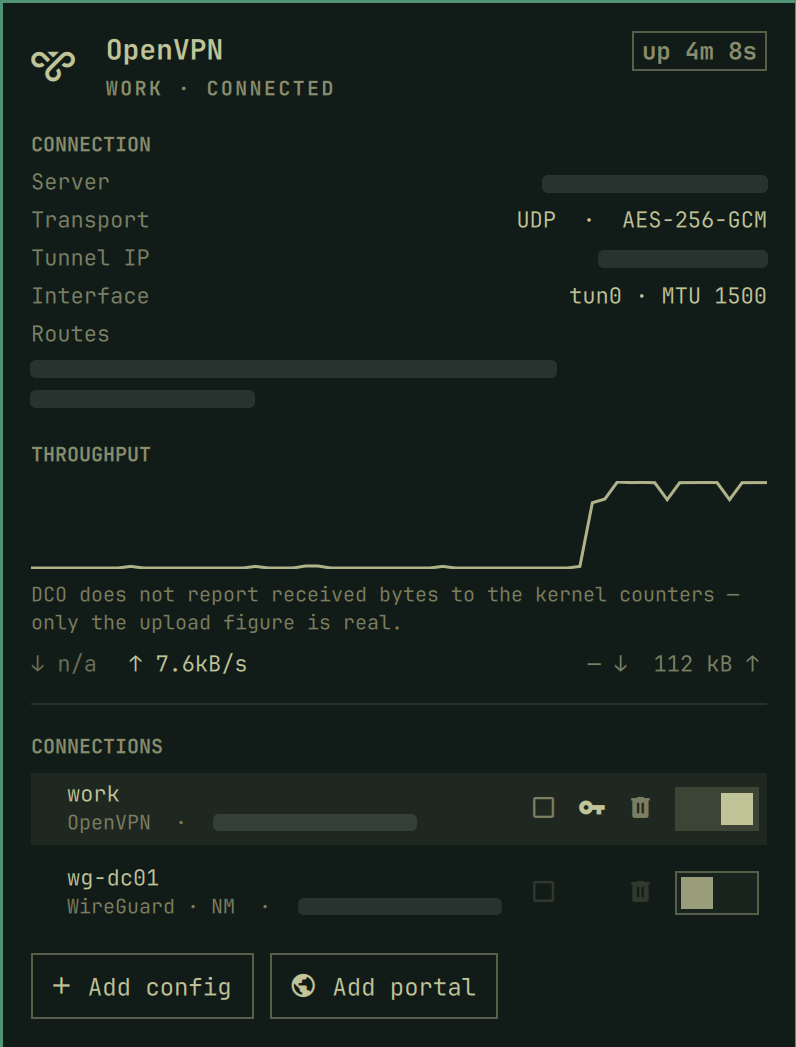
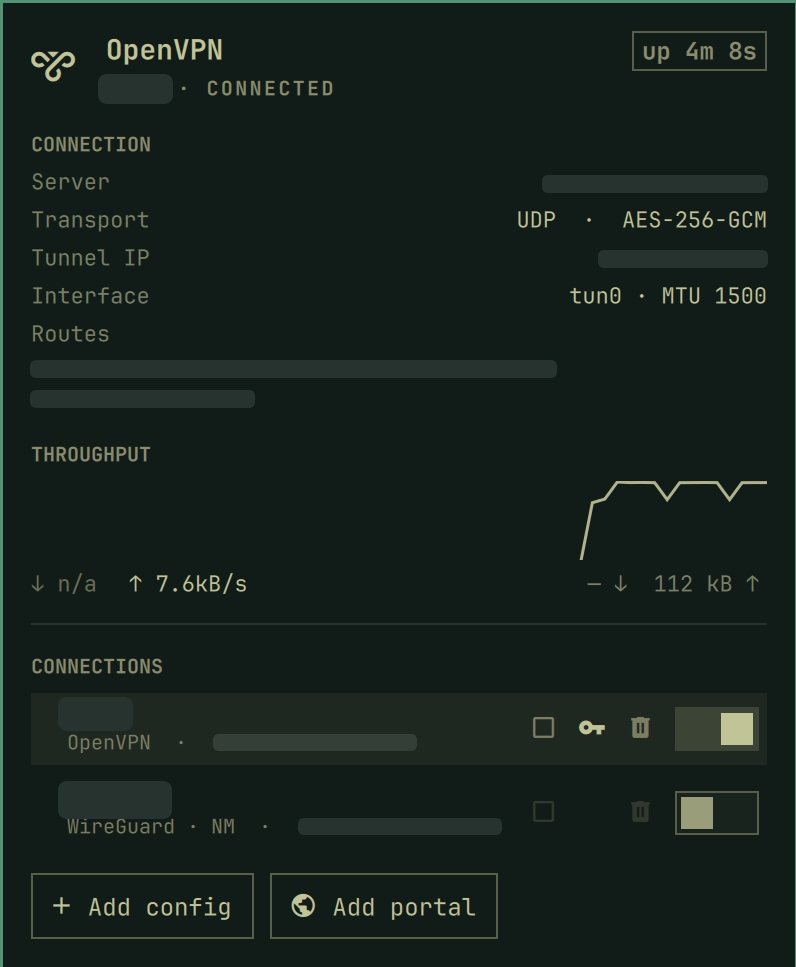
Lead the README with the install command and redact the preview
The listing was a capability matrix and a DCO caption before anyone saw
how to install it. Hook, screenshot and the plugin-add line now sit at
the top; the rest of the reference material is unchanged below.

The preview no longer shows the DCO note, profile names, or tunnel
endpoints — same overlay bars as KubeContext.

diff --git a/README.md b/README.md
@@ -1,56 +1,39 @@
 # MultiVPN for Omarchy
 
-One bar widget for every VPN on the machine. **Unified mode** — the default —
-lists OpenVPN profiles, OpenVPN 3 configs, WireGuard interfaces and
-GlobalProtect portals in a single panel, follows whichever one is connected,
-and switches between them with a click. Buttons add a config or a portal
-without leaving the panel.
-
-You can also pin an instance to a single backend if you prefer one icon per
-VPN; `allowMultiple` is on.
-
-| Backend | Connect / disconnect | Profile list | Autostart | Import | Credentials |
-|---|---|---|---|---|---|
-| **OpenVPN** (`openvpn-client@` and NetworkManager) | yes | `/etc/openvpn/client` + `nmcli` | yes | yes | systemd: stored; NM: prompt at connect |
-| **OpenVPN 3** (`openvpn3` D-Bus session manager) | yes | `openvpn3 configs-list` | no | yes | asked at session start — SSO opens the browser |
-| **WireGuard** (`wg-quick@` and NetworkManager) | yes | `/etc/wireguard` + `nmcli` | yes | yes | n/a — keys live in the config |
-| **GlobalProtect** (`gpclient`) | disconnect yes, connect hands off | no | no | no | n/a — SSO |
-
-Unified mode reports **every** connection that is up, not just one. Split-tunnel
-VPNs coexist without trouble — an OpenVPN profile pushing two office subnets and
-a WireGuard tunnel routing a few /16s do not interfere at all — so activating one
-does not take the others down. When more than one is connected, a selector picks
-which one the detail and throughput block describes.
-
-The one real conflict is the default route, and only full-tunnel configs claim
-it. If two connections do, the panel says so rather than trying to prevent it.
-
-OpenVPN 3 is the other OpenVPN stack and deliberately a separate backend — the
-two coexist on one machine and the panel decides capabilities per row. It is a
-per-user D-Bus session manager driven by the unprivileged `openvpn3` CLI, so
-listing, importing, connecting and removing configs never touch the root helper
-or its cache; polkit governs the D-Bus services instead. A profile with
-web-based auth does not just connect: the widget starts the session, opens the
-auth URL it prints in your browser, and watches until the session reports
-connected. It stops watching after ~120 s but leaves the session standing, so
-finishing the login late still connects. Autostart is off for now —
-`openvpn3-session@` units want root-owned persistent configs.
-
-GlobalProtect is deliberately the thin one. `gpclient` has no status command,
-no systemd unit and an interactive SSO login, so the widget watches it, can take
-it down, and hands connecting to a terminal or the vendor GUI. Everything that
-comes off the tunnel interface — address, routes, uptime, throughput — works the
-same for all three.
-
-*(Deutsche Fassung: [README.de.md](README.de.md).)*
+One bar widget for every VPN on the machine. Work OpenVPN, homelab WireGuard
+and GlobalProtect sit side by side. Split tunnels stay up together — connecting
+one does not take the others down. Drop a `.ovpn` or `.conf` on **Add config**
+to import.
 
 ![Preview](preview.png)
 
+## Install
+
+```bash
+omarchy plugin add https://github.com/Nepomuk-Software/MultiVPN.git --enable
+```
+
+That is enough. **Unified mode** is the default and needs no configuration. It
+lists OpenVPN profiles, OpenVPN 3 configs, WireGuard interfaces and GlobalProtect
+portals in a single panel, follows whichever one is connected, and switches
+between them with a click.
+
+To pin an instance to a single backend instead (`allowMultiple` is on):
+
+```bash
+omarchy bar set io.github.nepomuk-software.multivpn backend openvpn
+omarchy bar set io.github.nepomuk-software.multivpn profile home
+```
+
+*(Deutsche Fassung: [README.de.md](README.de.md).)*
+
+## What you get
+
 - **Bar icon** — dimmed while down, solid while up, pulsing during a transition.
   Optionally shows the current rate next to the icon.
-- **One switch per VPN**, in its own row. There is no global switch: with
-  several connections possible at once, a single toggle at the top would have to
-  pick one silently.
+- **One switch per VPN**, in its own row. There is no global switch: with several
+  connections possible at once, a single toggle at the top would have to pick
+  one silently.
 - **Connection** — server endpoint, protocol and port, cipher, tunnel IP,
   interface and MTU, uptime, pushed routes.
 - **Throughput** — a sparkline over the last 60 samples plus current rate and
@@ -72,6 +55,44 @@ same for all three.
   helper, and the path that can prompt for a one-time password), OpenVPN 3's
   session manager, or `/etc/openvpn/client` for `openvpn-client@`.
   GlobalProtect portals are added by host name instead, since they are not files.
+- **No root required** for status, throughput, NetworkManager connections and
+  OpenVPN 3. Listing files under `/etc/openvpn/client` and `/etc/wireguard` is
+  the exception; the panel says so and offers a one-time setup.
+
+## Backends
+
+| Backend | Connect / disconnect | Profile list | Autostart | Import | Credentials |
+|---|---|---|---|---|---|
+| **OpenVPN** (`openvpn-client@` and NetworkManager) | yes | `/etc/openvpn/client` + `nmcli` | yes | yes | systemd: stored; NM: prompt at connect |
+| **OpenVPN 3** (`openvpn3` D-Bus session manager) | yes | `openvpn3 configs-list` | no | yes | asked at session start — SSO opens the browser |
+| **WireGuard** (`wg-quick@` and NetworkManager) | yes | `/etc/wireguard` + `nmcli` | yes | yes | n/a — keys live in the config |
+| **GlobalProtect** (`gpclient`) | disconnect yes, connect hands off | no | no | no | n/a — SSO |
+
+Unified mode reports **every** connection that is up, not just one. Split-tunnel
+VPNs coexist without trouble — an OpenVPN profile pushing two office subnets and
+a WireGuard tunnel routing a few /16s do not interfere at all. When more than
+one is connected, a selector picks which one the detail and throughput block
+describes.
+
+The one real conflict is the default route, and only full-tunnel configs claim
+it. If two connections do, the panel says so rather than trying to prevent it.
+
+OpenVPN 3 is the other OpenVPN stack and deliberately a separate backend — the
+two coexist on one machine and the panel decides capabilities per row. It is a
+per-user D-Bus session manager driven by the unprivileged `openvpn3` CLI, so
+listing, importing, connecting and removing configs never touch the root helper
+or its cache; polkit governs the D-Bus services instead. A profile with
+web-based auth does not just connect: the widget starts the session, opens the
+auth URL it prints in your browser, and watches until the session reports
+connected. It stops watching after ~120 s but leaves the session standing, so
+finishing the login late still connects. Autostart is off for now —
+`openvpn3-session@` units want root-owned persistent configs.
+
+GlobalProtect is deliberately the thin one. `gpclient` has no status command,
+no systemd unit and an interactive SSO login, so the widget watches it, can take
+it down, and hands connecting to a terminal or the vendor GUI. Everything that
+comes off the tunnel interface — address, routes, uptime, throughput — works the
+same for all four.
 
 ## Requirements
 
@@ -86,26 +107,11 @@ same for all three.
 Reading the journal is optional in practice: without it the panel simply shows
 `—` for server and cipher.
 
-## Install
-
-```bash
-omarchy plugin add https://github.com/Nepomuk-Software/MultiVPN.git --enable
-```
-
-That is enough — unified mode needs no configuration. To pin an instance to one
-backend instead:
-
-```bash
-omarchy bar set io.github.nepomuk-software.multivpn backend openvpn
-omarchy bar set io.github.nepomuk-software.multivpn profile work
-```
-
 ## Privilege boundary
 
-**Everything above works with no elevated privileges.** Status, throughput and
-connection details come from unprivileged reads. Bringing the tunnel up and down
-uses `systemctl start/stop`, which polkit will ask about unless you have a rule
-for it (see below).
+**Status, throughput and connection details work with no elevated privileges.**
+Bringing the tunnel up and down uses `systemctl start/stop`, which polkit will
+ask about unless you have a rule for it (see below).
 
 **Profile management is the exception.** `/etc/openvpn/client` is `750
 openvpn:network` and `/etc/wireguard` is root-only, so listing, importing or

diff --git a/README.de.md b/README.de.md
@@ -1,53 +1,34 @@
 # MultiVPN für Omarchy
 
-Ein Bar-Widget für alle VPNs der Maschine. Der **Unified-Modus** — die
-Voreinstellung — listet OpenVPN-Profile, OpenVPN-3-Configs,
+Ein Bar-Widget für alle VPNs der Maschine. Office-OpenVPN, Homelab-WireGuard
+und GlobalProtect stehen nebeneinander. Split-Tunnels bleiben stehen —
+eine Verbindung zu aktivieren baut die anderen nicht ab. Eine `.ovpn` oder
+`.conf` landet über **Add config** im Panel.
+
+![Vorschau](preview.png)
+
+## Installieren
+
+```bash
+omarchy plugin add https://github.com/Nepomuk-Software/MultiVPN.git --enable
+```
+
+Das reicht. Der **Unified-Modus** ist die Voreinstellung und braucht keine
+Konfiguration. Er listet OpenVPN-Profile, OpenVPN-3-Configs,
 WireGuard-Interfaces und GlobalProtect-Portale in einem Panel, folgt der
-jeweils verbundenen Lösung und wechselt per Klick. Knöpfe fügen eine Config
-oder ein Portal hinzu, ohne das Panel zu verlassen.
+jeweils verbundenen Lösung und wechselt per Klick.
 
-Wer lieber ein Icon pro VPN will, kann eine Instanz auf ein Backend festnageln;
-`allowMultiple` ist an.
+Wer lieber ein Icon pro VPN will, kann eine Instanz auf ein Backend festnageln
+(`allowMultiple` ist an):
 
-| Backend | Schalten | Profilliste | Autostart | Import | Zugangsdaten |
-|---|---|---|---|---|---|
-| **OpenVPN** (`openvpn-client@` und NetworkManager) | ja | `/etc/openvpn/client` + `nmcli` | ja | ja | systemd: gespeichert; NM: Prompt beim Verbinden |
-| **OpenVPN 3** (`openvpn3`-D-Bus-Sitzungsmanager) | ja | `openvpn3 configs-list` | nein | ja | beim Sitzungsstart — SSO öffnet den Browser |
-| **WireGuard** (`wg-quick@` und NetworkManager) | ja | `/etc/wireguard` + `nmcli` | ja | ja | entfällt — Schlüssel stehen in der Config |
-| **GlobalProtect** (`gpclient`) | Trennen ja, Verbinden wird übergeben | nein | nein | nein | entfällt — SSO |
-
-Der Unified-Modus meldet **alle** laufenden Verbindungen, nicht nur eine.
-Split-Tunnel vertragen sich problemlos — ein OpenVPN-Profil, das zwei
-Büro-Subnetze pusht, und ein WireGuard-Tunnel für ein paar /16er kommen sich
-nicht ins Gehege. Eine Verbindung zu aktivieren baut die anderen also nicht ab.
-Sind mehrere verbunden, wählt eine Leiste aus, welche der Detail- und
-Durchsatzblock beschreibt.
-
-Der einzige echte Konflikt ist die Default-Route, und die beanspruchen nur
-Full-Tunnel-Configs. Tun das zwei gleichzeitig, sagt das Panel es — statt es zu
-verhindern.
-
-OpenVPN 3 ist der andere OpenVPN-Stack und mit Absicht ein eigenes Backend —
-beide koexistieren auf einer Maschine, und das Panel entscheidet Fähigkeiten
-pro Zeile. Es ist ein D-Bus-Sitzungsmanager pro Benutzer, gesteuert über das
-unprivilegierte `openvpn3`-CLI: Auflisten, Importieren, Verbinden und
-Entfernen laufen also nie über den Root-Helfer oder dessen Cache — Polkit
-regelt die D-Bus-Dienste. Ein Profil mit Web-Login verbindet nicht einfach:
-das Widget startet die Sitzung, öffnet die ausgegebene Auth-URL im Browser
-und wartet, bis die Sitzung sich als verbunden meldet. Nach ~120 s hört es
-auf zu warten, lässt die Sitzung aber stehen — ein spät abgeschlossener
-Login verbindet also trotzdem. Autostart bleibt vorerst aus:
-`openvpn3-session@`-Units wollen root-eigene persistente Configs.
-
-GlobalProtect ist bewusst der dünne Fall: `gpclient` hat keinen Status-Befehl,
-keine systemd-Unit und einen interaktiven SSO-Login. Das Widget schaut also zu,
-kann trennen, und reicht das Verbinden an ein Terminal oder die Hersteller-GUI
-weiter. Alles, was am Tunnel-Interface hängt — Adresse, Routen, Laufzeit,
-Durchsatz — funktioniert für alle drei gleich.
+```bash
+omarchy bar set io.github.nepomuk-software.multivpn backend openvpn
+omarchy bar set io.github.nepomuk-software.multivpn profile home
+```
 
 *(English version: [README.md](README.md) — die maßgebliche Fassung.)*
 
-![Vorschau](preview.png)
+## Was du bekommst
 
 - **Bar-Icon** — gedimmt wenn getrennt, normal wenn verbunden, pulsierend
   während eines Schaltvorgangs. Optional mit Durchsatz daneben.
@@ -74,6 +55,46 @@ Durchsatz — funktioniert für alle drei gleich.
   den OpenVPN-3-Sitzungsmanager oder `/etc/openvpn/client` für
   `openvpn-client@`. GlobalProtect-Portale kommen stattdessen als Hostname
   dazu, sie sind ja keine Dateien.
+- **Kein Root** für Status, Durchsatz, NetworkManager-Verbindungen und
+  OpenVPN 3. Dateien unter `/etc/openvpn/client` und `/etc/wireguard` sind die
+  Ausnahme; das Panel sagt das und bietet eine einmalige Einrichtung an.
+
+## Backends
+
+| Backend | Schalten | Profilliste | Autostart | Import | Zugangsdaten |
+|---|---|---|---|---|---|
+| **OpenVPN** (`openvpn-client@` und NetworkManager) | ja | `/etc/openvpn/client` + `nmcli` | ja | ja | systemd: gespeichert; NM: Prompt beim Verbinden |
+| **OpenVPN 3** (`openvpn3`-D-Bus-Sitzungsmanager) | ja | `openvpn3 configs-list` | nein | ja | beim Sitzungsstart — SSO öffnet den Browser |
+| **WireGuard** (`wg-quick@` und NetworkManager) | ja | `/etc/wireguard` + `nmcli` | ja | ja | entfällt — Schlüssel stehen in der Config |
+| **GlobalProtect** (`gpclient`) | Trennen ja, Verbinden wird übergeben | nein | nein | nein | entfällt — SSO |
+
+Der Unified-Modus meldet **alle** laufenden Verbindungen, nicht nur eine.
+Split-Tunnel vertragen sich problemlos — ein OpenVPN-Profil, das zwei
+Büro-Subnetze pusht, und ein WireGuard-Tunnel für ein paar /16er kommen sich
+nicht ins Gehege. Sind mehrere verbunden, wählt eine Leiste aus, welche der
+Detail- und Durchsatzblock beschreibt.
+
+Der einzige echte Konflikt ist die Default-Route, und die beanspruchen nur
+Full-Tunnel-Configs. Tun das zwei gleichzeitig, sagt das Panel es — statt es zu
+verhindern.
+
+OpenVPN 3 ist der andere OpenVPN-Stack und mit Absicht ein eigenes Backend —
+beide koexistieren auf einer Maschine, und das Panel entscheidet Fähigkeiten
+pro Zeile. Es ist ein D-Bus-Sitzungsmanager pro Benutzer, gesteuert über das
+unprivilegierte `openvpn3`-CLI: Auflisten, Importieren, Verbinden und
+Entfernen laufen also nie über den Root-Helfer oder dessen Cache — Polkit
+regelt die D-Bus-Dienste. Ein Profil mit Web-Login verbindet nicht einfach:
+das Widget startet die Sitzung, öffnet die ausgegebene Auth-URL im Browser
+und wartet, bis die Sitzung sich als verbunden meldet. Nach ~120 s hört es
+auf zu warten, lässt die Sitzung aber stehen — ein spät abgeschlossener
+Login verbindet also trotzdem. Autostart bleibt vorerst aus:
+`openvpn3-session@`-Units wollen root-eigene persistente Configs.
+
+GlobalProtect ist bewusst der dünne Fall: `gpclient` hat keinen Status-Befehl,
+keine systemd-Unit und einen interaktiven SSO-Login. Das Widget schaut also zu,
+kann trennen, und reicht das Verbinden an ein Terminal oder die Hersteller-GUI
+weiter. Alles, was am Tunnel-Interface hängt — Adresse, Routen, Laufzeit,
+Durchsatz — funktioniert für alle vier gleich.
 
 ## Voraussetzungen
 
@@ -84,17 +105,10 @@ Je nach Backend `openvpn`, `openvpn3` (openvpn3-linux), `wireguard-tools`
 `pkexec` und `python3`. Server und Cipher kommen aus dem Journal — ohne
 Leserechte darauf steht dort schlicht `—`.
 
-## Installieren
-
-```bash
-omarchy plugin add https://github.com/Nepomuk-Software/MultiVPN.git --enable
-```
-
 ## Privilegien-Grenze
 
-**Alles Lesende läuft ohne erhöhte Rechte.** Zustand, Durchsatz und Details
-kommen aus unprivilegierten Abfragen. Schalten geht über `systemctl start/stop`
-— dafür fragt polkit, sofern keine Regel existiert.
+**Zustand, Durchsatz und Details laufen ohne erhöhte Rechte.** Schalten geht
+über `systemctl start/stop` — dafür fragt polkit, sofern keine Regel existiert.
 
 **Ausnahme ist die Profilverwaltung.** `/etc/openvpn/client` ist
 `750 openvpn:network`, `/etc/wireguard` gehört root allein — Auflisten,
